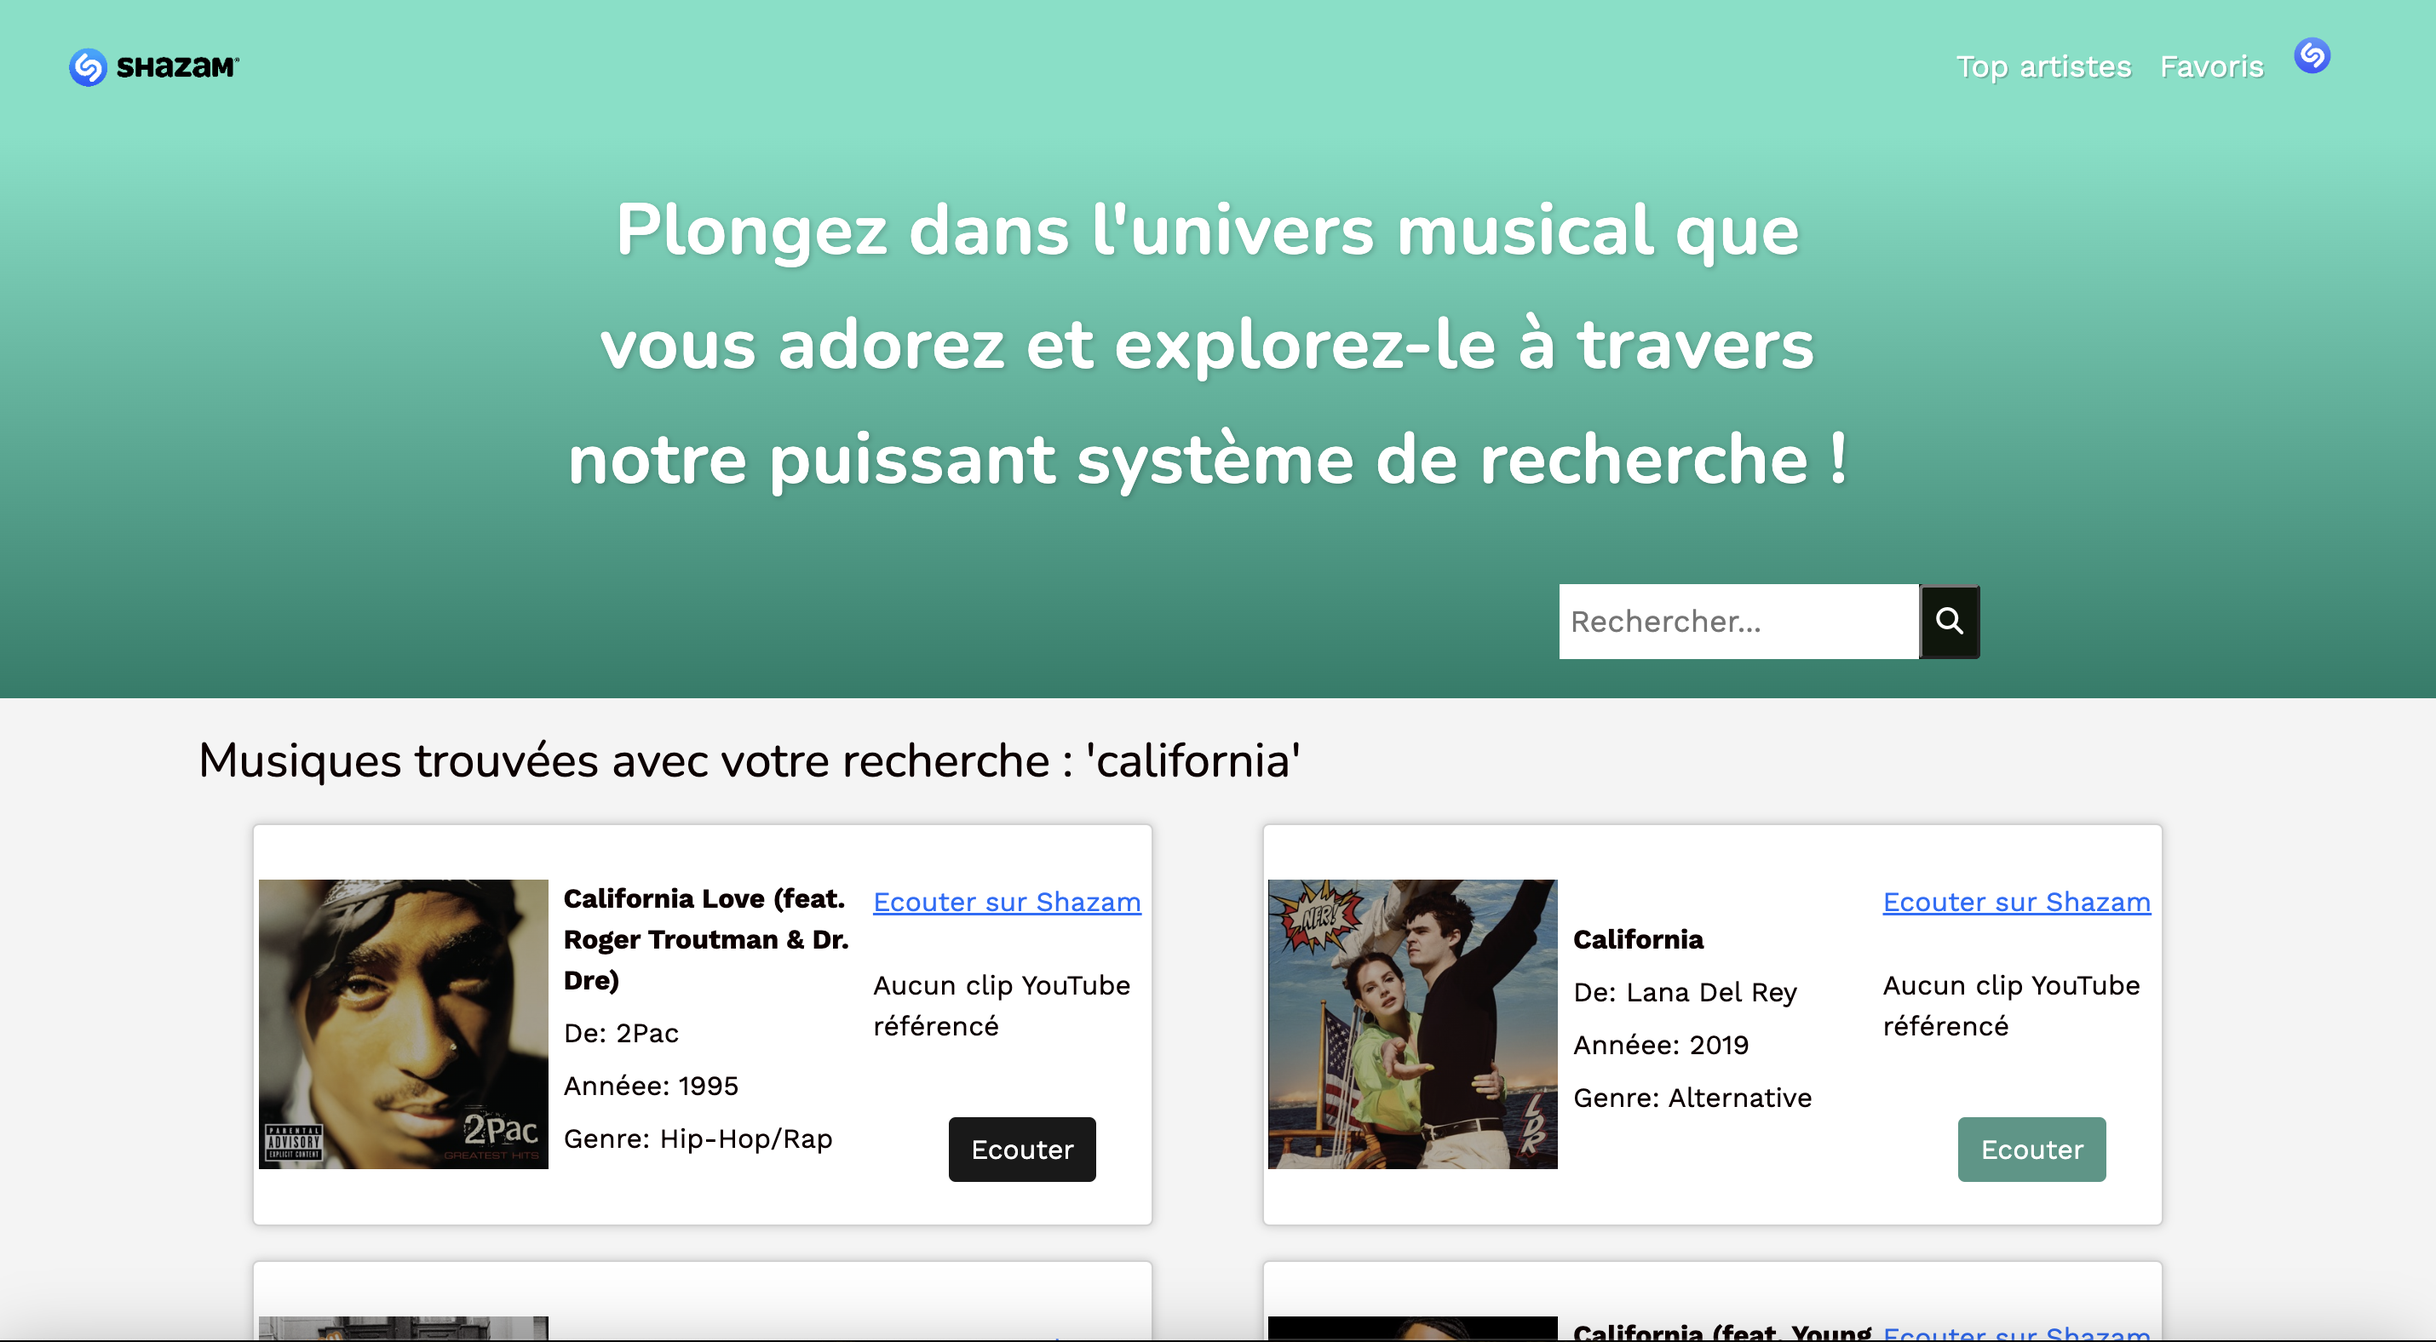
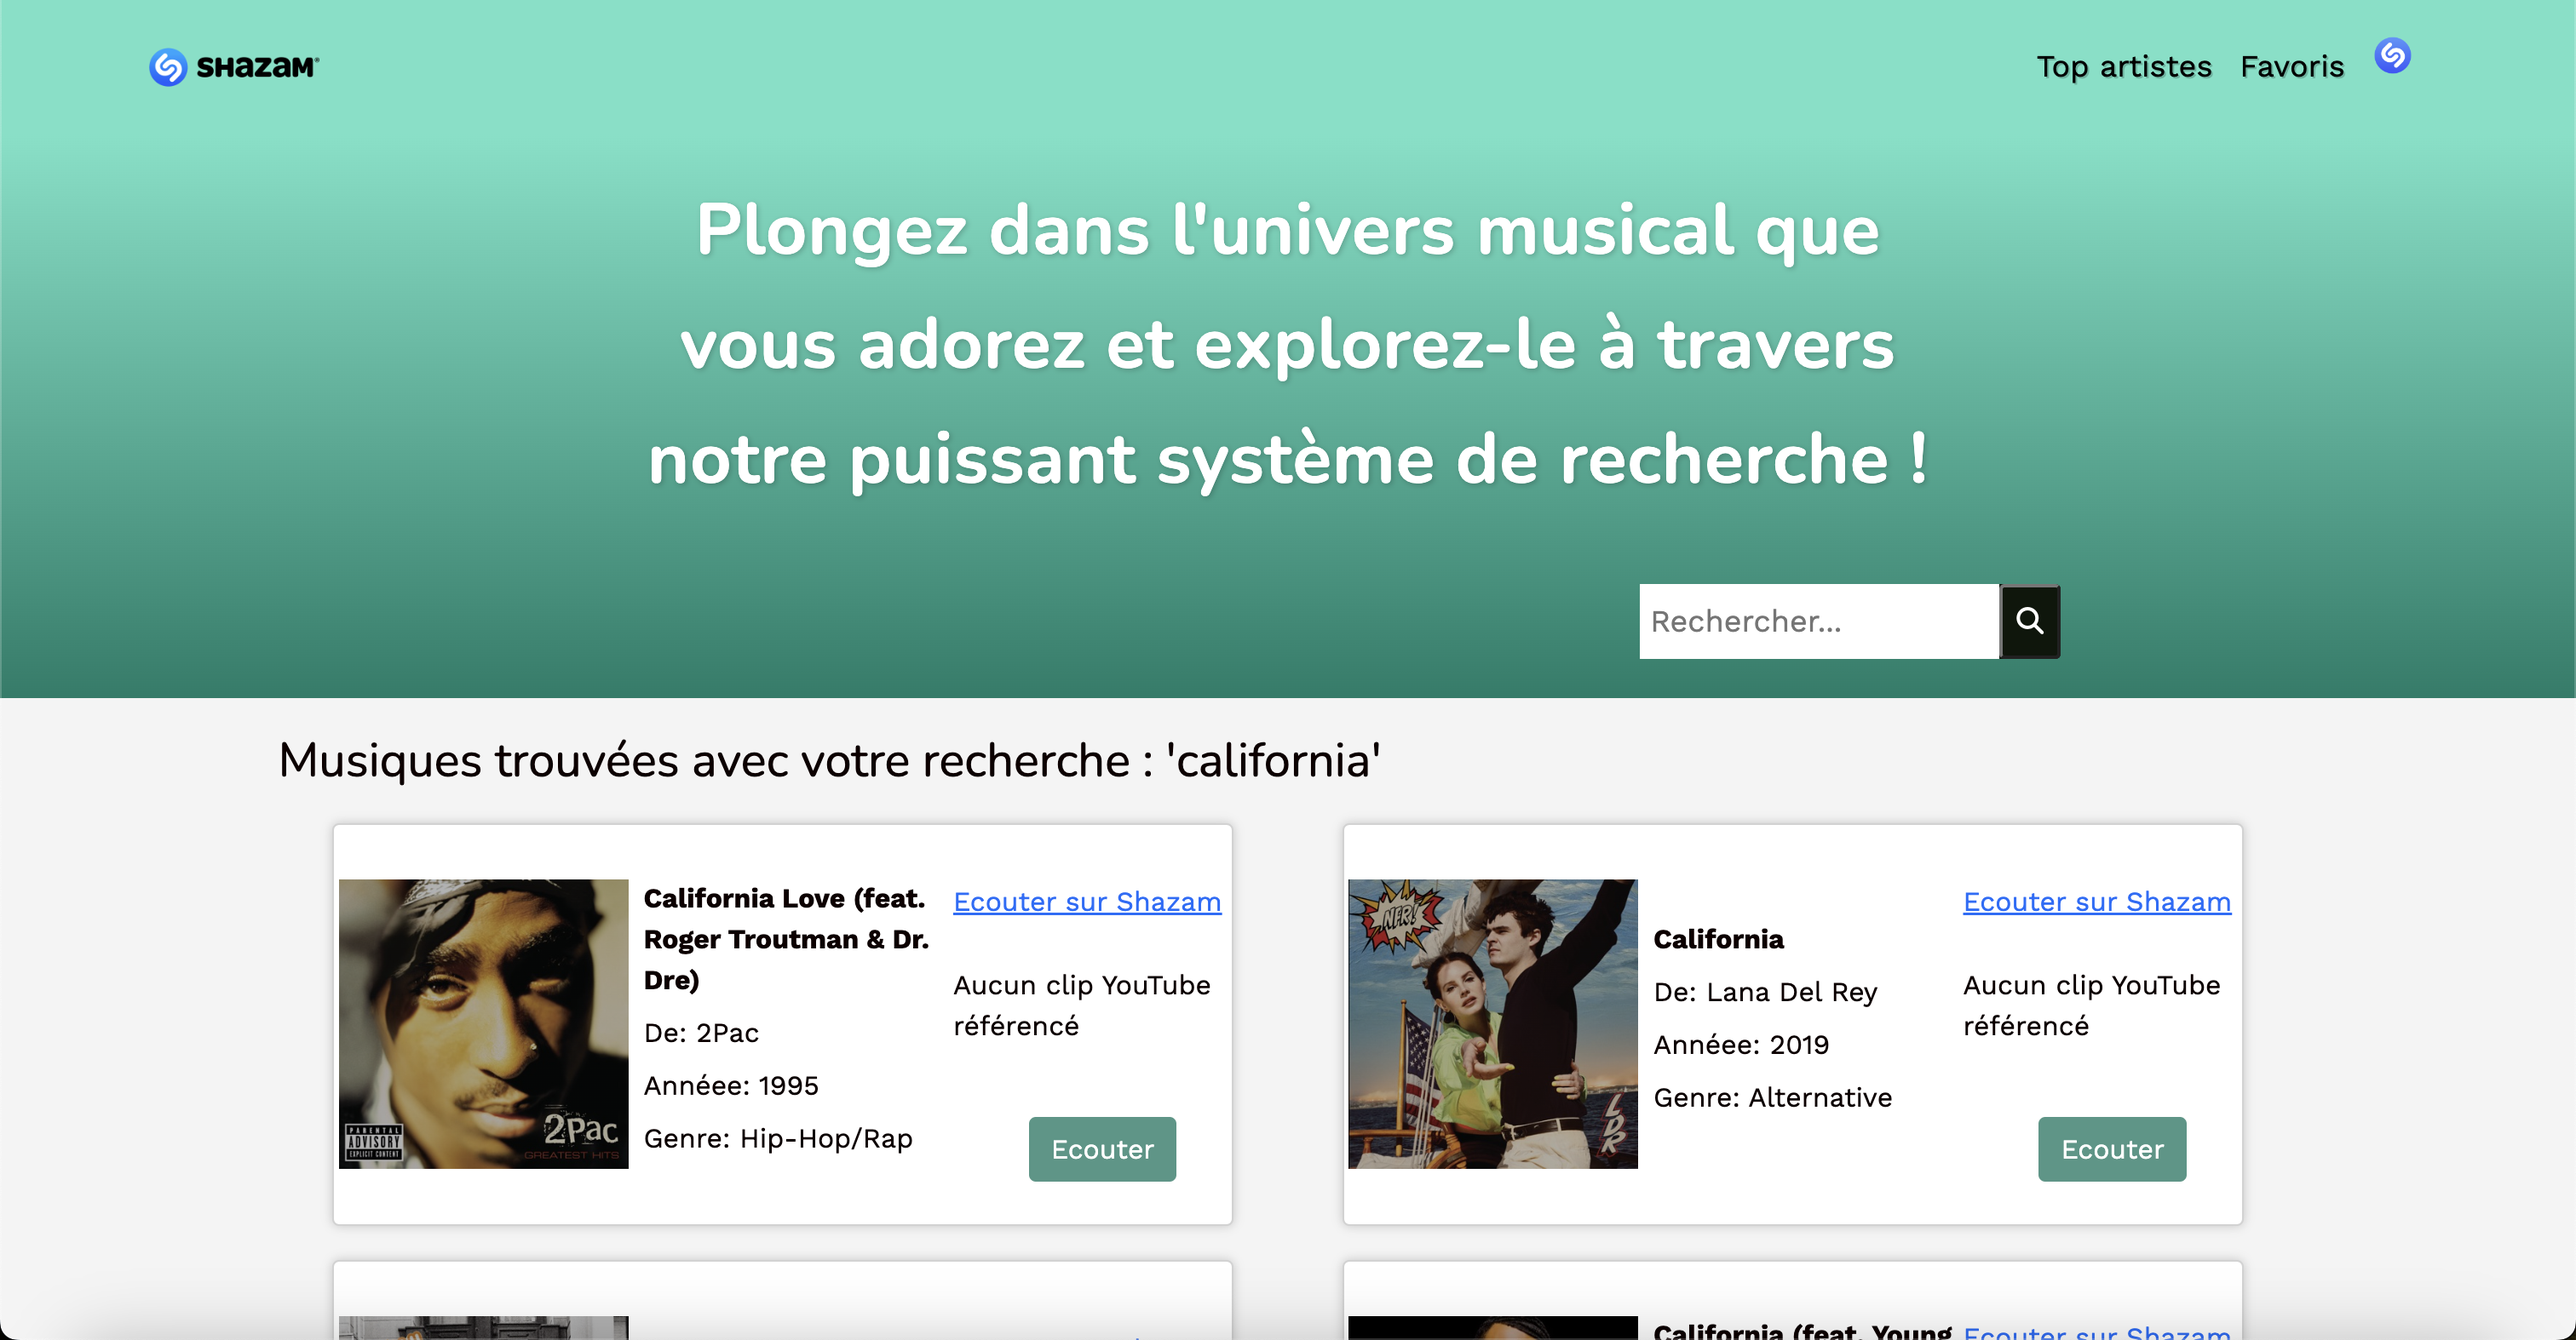
screenshot changed on readme

diff --git a/app/assets/stylesheets/components/_navbar.scss b/app/assets/stylesheets/components/_navbar.scss
@@ -14,7 +14,7 @@
 }
 
 .nav-link {
-  color: white;
+  color: black;
   text-shadow: 1px 1px rgba(0, 0, 0, 0.2);
 }
 

diff --git a/README.md b/README.md
@@ -14,4 +14,3 @@ I found it would be nice to find directly cover album, artist and get the possib
 Here we are getting data by parsing Shazam API with rapidapi website:
  --> https://rapidapi.com/apidojo/api/shazam/
 You would need to create an account to get your API key and be able to use the research form.
-
